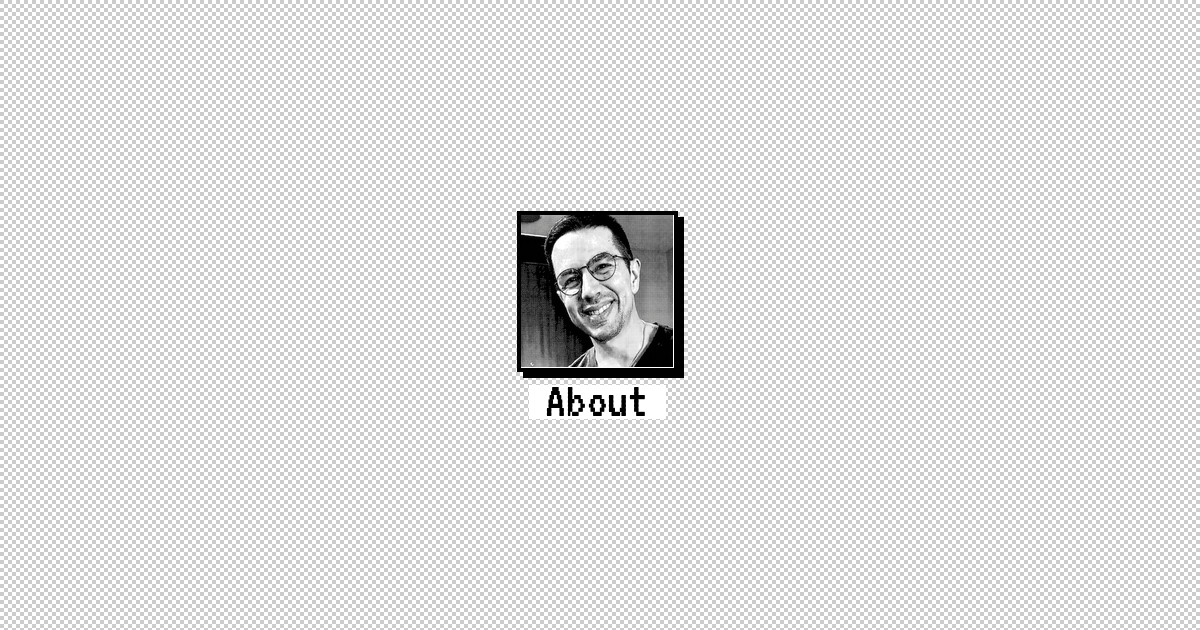
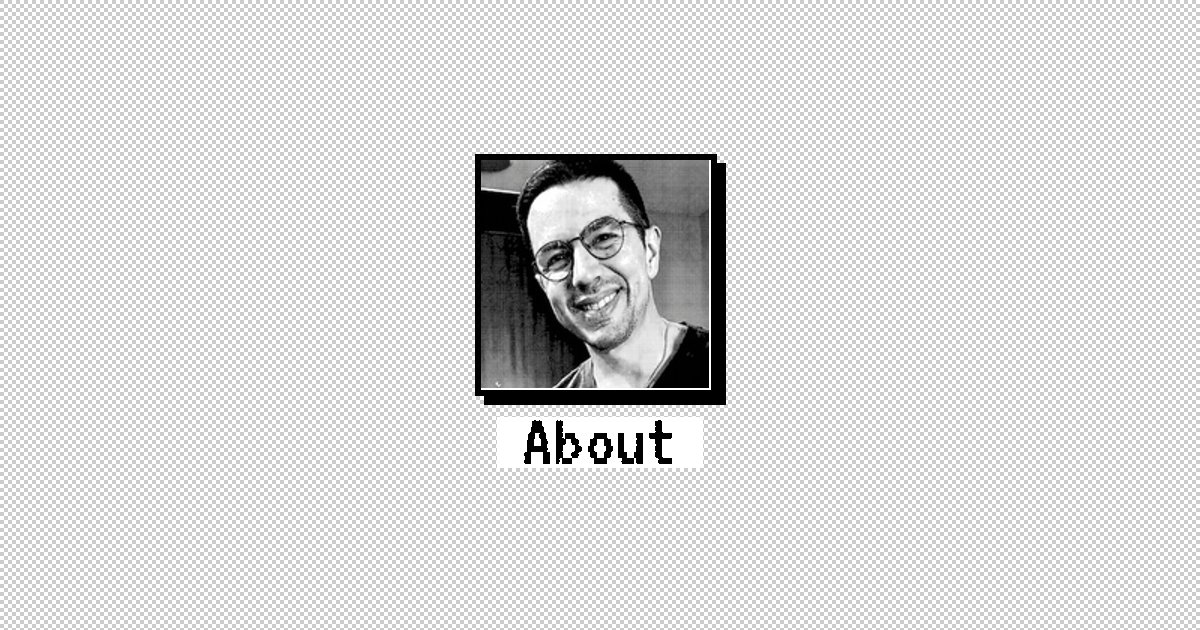
more updates

Changed region(s): [[0.37, 0.2413, 0.6167, 0.754]]

diff --git a/index.html b/index.html
@@ -88,8 +88,8 @@
   <meta property="og:url" content="https://onemorething.tokyo/" />
   <meta property="og:site_name" content="Justin Garcia" />
   <meta property="og:description" content="Tokyo-based software engineer building real-time speech AI products at Kotoba, with previous experience at Apple, Procore, and iHeartMedia." />
-  <meta property="og:image" content="https://onemorething.tokyo/assets/about-social.png?v=1" />
-  <meta property="og:image:secure_url" content="https://onemorething.tokyo/assets/about-social.png?v=1" />
+  <meta property="og:image" content="https://onemorething.tokyo/assets/about-social.png?v=2" />
+  <meta property="og:image:secure_url" content="https://onemorething.tokyo/assets/about-social.png?v=2" />
   <meta property="og:image:type" content="image/png" />
   <meta property="og:image:width" content="1200" />
   <meta property="og:image:height" content="630" />
@@ -97,7 +97,7 @@
   <meta name="twitter:card" content="summary_large_image" />
   <meta name="twitter:title" content="Justin Garcia — iOS and Speech AI Engineer in Tokyo" />
   <meta name="twitter:description" content="Tokyo-based software engineer building real-time speech AI products at Kotoba." />
-  <meta name="twitter:image" content="https://onemorething.tokyo/assets/about-social.png?v=1" />
+  <meta name="twitter:image" content="https://onemorething.tokyo/assets/about-social.png?v=2" />
   <script type="application/ld+json">
   {
     "@context": "https://schema.org",
